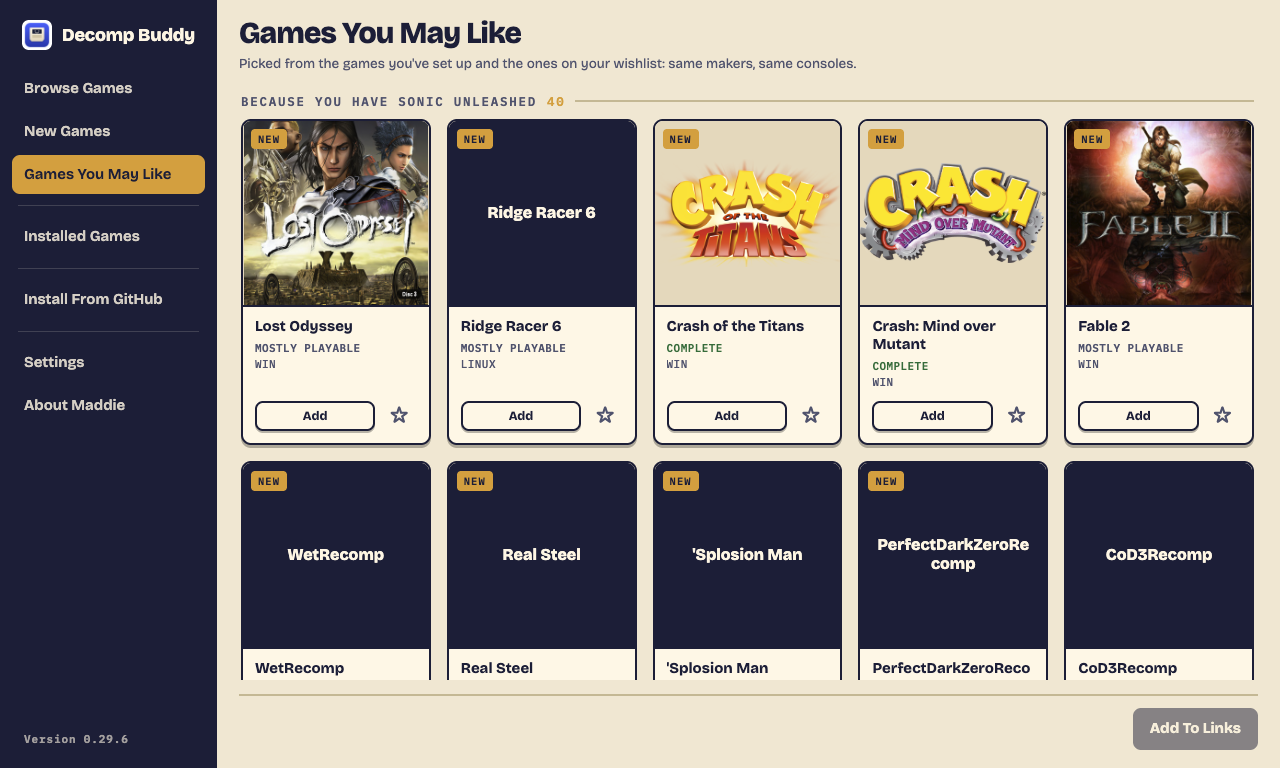
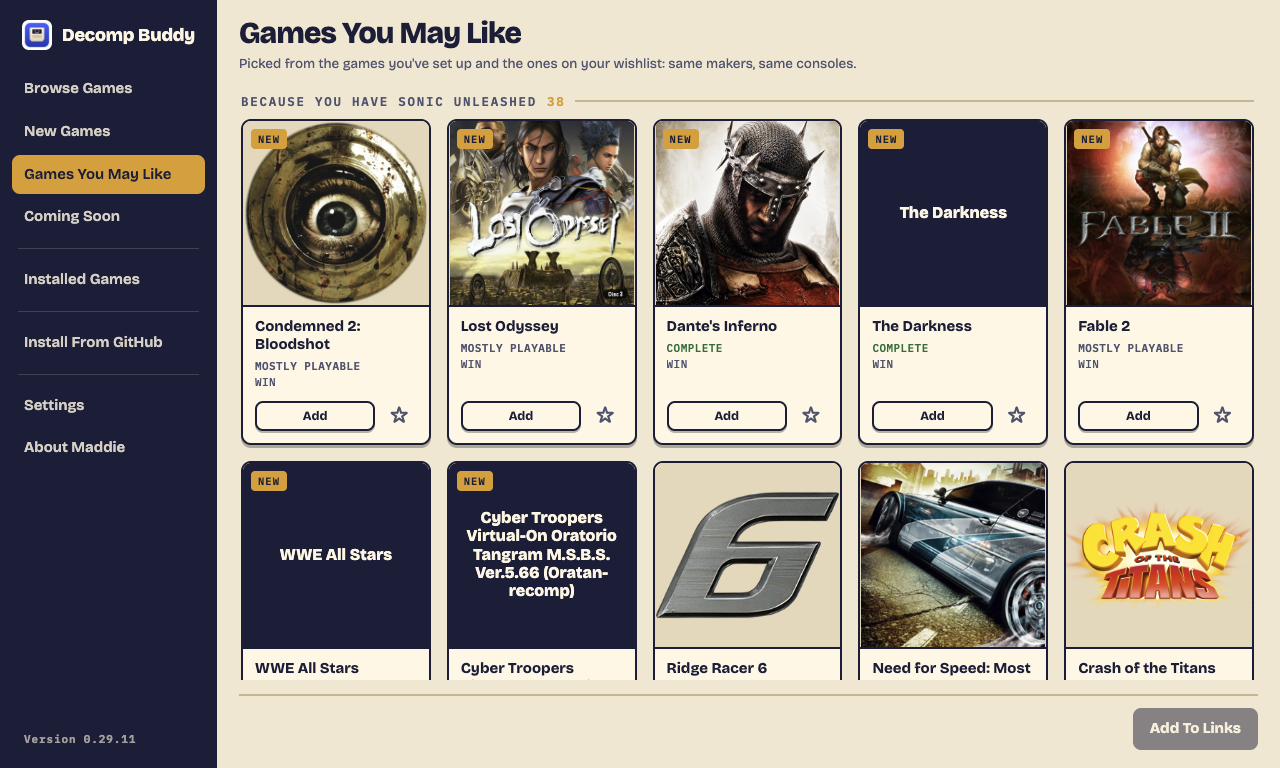
Discover reads r/recomps; queue sort reads Reddit and searches link-less titles; console aliases; fresh screenshots

diff --git a/src/discover.js b/src/discover.js
@@ -1,4 +1,4 @@
-// Finding projects nobody has listed yet: r/decomps (RSS - Reddit's JSON needs OAuth, the feed
+// Finding projects nobody has listed yet: Reddit (RSS - Reddit's JSON needs OAuth, the feed
 // doesn't) and GitHub search. Both return raw candidates; the admin decides what's real.
 
 const UA = "decomp-buddy/discover (by /u/tanookistudios)";
@@ -13,28 +13,40 @@ export function reposIn(text) {
 }
 
 export function parseRedditRss(xml, sub) {
-  const out = [];
+  const out = [], unlinked = [];
   for (const [, entry] of xml.matchAll(/<entry>([\s\S]*?)<\/entry>/g)) {
     const title = unescape((entry.match(/<title>([\s\S]*?)<\/title>/) || [])[1] || "");
     const link = (entry.match(/<link href="([^"]+)"/) || [])[1] || "";
     const updated = (entry.match(/<updated>([^<]+)<\/updated>/) || [])[1] || "";
     const content = unescape((entry.match(/<content[^>]*>([\s\S]*?)<\/content>/) || [])[1] || "");
-    for (const [, repo] of reposIn(`${content} ${link}`)) out.push({ repo, title, via: `r/${sub}`, url: link, seen: updated });
+    const repos = reposIn(`${content} ${link}`);
+    for (const [, repo] of repos) out.push({ repo, title, via: `r/${sub}`, url: link, seen: updated });
+    // A post about a port with no GitHub link in it (a video, a screenshot): the title is still a lead.
+    if (!repos.size && /recomp|decomp|port|native|remaster|\bpc\b/i.test(title)) unlinked.push({ title, url: link, sub, seen: updated });
   }
+  out.unlinked = unlinked;
   return out;
 }
 
-// One bad subreddit (429s are common) doesn't sink the others; errors come back alongside.
-export async function scanReddit(subs = ["decomps"]) {
-  const out = [], errors = [];
-  for (const sub of subs) {
+export const REDDIT_SUBS = ["decomps", "recomps", "emulation", "decompilation"];
+const pause = (ms) => new Promise((r) => setTimeout(r, ms));
+
+// One bad subreddit doesn't sink the others; errors come back alongside. Reddit answers 429 when feeds
+// are asked for back to back, so subreddits go a few seconds apart and a 429 gets one slower retry.
+export async function scanReddit(subs = REDDIT_SUBS, { gap = 10000, retryAfter = 45000 } = {}) {
+  const out = [], errors = [], unlinked = [];
+  for (const [i, sub] of subs.entries()) {
+    if (i) await pause(gap);
     try {
-      const res = await fetch(`https://www.reddit.com/r/${sub}/new.rss?limit=100`, { headers: { "User-Agent": UA }, signal: AbortSignal.timeout(20_000) });
+      const get = () => fetch(`https://www.reddit.com/r/${sub}/new.rss?limit=100`, { headers: { "User-Agent": UA }, signal: AbortSignal.timeout(20_000) });
+      let res = await get();
+      if (res.status === 429) { await pause(retryAfter); res = await get(); }
       if (!res.ok) { errors.push(`r/${sub} answered ${res.status}`); continue; }
-      out.push(...parseRedditRss(await res.text(), sub));
+      const got = parseRedditRss(await res.text(), sub);
+      out.push(...got); unlinked.push(...got.unlinked);
     } catch (err) { errors.push(`r/${sub}: ${err.message}`); }
   }
-  out.errors = errors;
+  out.errors = errors; out.unlinked = unlinked;
   return out;
 }
 

diff --git a/src/main/settings.js b/src/main/settings.js
@@ -15,6 +15,7 @@ import { readVault } from "../vault.js";
 import { steamDir } from "../steam.js";
 import { fetchSharedSources, sourceKey, validateSourceEntry, normalizeUser, SOURCES_URL } from "../sources/shared-sources.js";
 import { VERSION, vaultDir, logFile, encrypt, decrypt, loadSettings, saveSettings, outDirFor, defaultFindsFile, sourcesFileFor, currentTarget, githubToken, applyGitHubToken, here } from "./core.js";
+import { REDDIT_SUBS } from "../discover.js";
 
 ipcMain.handle("settings:get", async () => {
   const s = loadSettings();
@@ -30,7 +31,7 @@ ipcMain.handle("settings:get", async () => {
     hasKey: !!decrypt(saved), version: VERSION, hasGithubToken: !!githubToken(s), lang: s.lang || "system", langs: LANGS, osLang: app.getLocale(),
     theme: s.theme || "system", preferBoxart: !!s.preferBoxart, sawLegal: !!s.sawLegal, sawWhere: !!s.sawWhere, setupCount: s.setupCount || 0, nudgedAt: s.nudgedAt || [], collapsedGroups: s.collapsedGroups || [], vault: readVault(vaultDir()),
     wishlist: s.wishlist || {}, mine: s.mine || {}, digest: s.digest || null, startCouch: !!s.startCouch, countSetups: s.countSetups ?? null, libraryFolders: s.libraryFolders || [], steamAvailable: !!steamDir(),
-    discoverSubs: s.discoverSubs || ["decomps", "emulation", "decompilation"], discoverChannels: s.discoverChannels || [],
+    discoverSubs: s.discoverSubs || REDDIT_SUBS, discoverChannels: s.discoverChannels || [],
     target: TARGETS[s.target] ? s.target : "windows", targets: Object.fromEntries(Object.entries(TARGETS).map(([k, t]) => [k, t.label])),
     sources: {
       builtin: BUILTIN.map((b) => ({ id: b.SOURCE.id, label: b.SOURCE.label, url: b.SOURCE.url, enabled: s.sources?.builtin?.[b.SOURCE.id] !== false })),

diff --git a/test/discover.test.js b/test/discover.test.js
@@ -17,3 +17,18 @@ test("youtube: channel id resolution accepts ids and handles; feed parse pulls r
   const r = await scanYouTube(["nope"], { resolve: async () => { throw new Error("no such channel"); } });
   assert.deepEqual(r.candidates, []); assert.match(r.errors[0], /no such channel/);
 });
+
+test("reddit: posts without a GitHub link keep their title as a lead; a 429 gets one retry", async () => {
+  const { parseRedditRss, scanReddit } = await import("../src/discover.js");
+  const xml = `<feed><entry><title>Burnout 3 Takedown Is Finally On PC</title><link href="https://www.reddit.com/r/recomps/comments/y/"/><updated>2026-10-16T00:00:00+00:00</updated><content type="html">&lt;p&gt;video&lt;/p&gt;</content></entry>
+  <entry><title>What should I play tonight?</title><link href="https://www.reddit.com/r/recomps/comments/z/"/></entry></feed>`;
+  const r = parseRedditRss(xml, "recomps");
+  assert.equal(r.length, 0);
+  assert.deepEqual(r.unlinked.map((u) => u.title), ["Burnout 3 Takedown Is Finally On PC"]);
+  const real = globalThis.fetch; let calls = 0;
+  globalThis.fetch = async () => (++calls === 1 ? { status: 429, ok: false } : { status: 200, ok: true, text: async () => xml });
+  try {
+    const s = await scanReddit(["recomps"], { gap: 0, retryAfter: 0 });
+    assert.equal(calls, 2); assert.deepEqual(s.errors, []); assert.equal(s.unlinked.length, 1);
+  } finally { globalThis.fetch = real; }
+});

diff --git a/src/renames.js b/src/renames.js
@@ -13,7 +13,7 @@ export const canonRepo = (full) => { const [o, ...r] = String(full || "").split(
 const CONSOLE_ALIASES = [[/^(nintendo )?game ?boy advance$|^gba$/i, "Game Boy Advance"], [/^nintendo entertainment system$|^famicom$/i, "NES"],
   [/^super nintendo( entertainment system)?$|^super famicom$/i, "SNES"], [/^sony playstation$|^ps1$|^psx$/i, "PlayStation"], [/^sony playstation 2$/i, "PlayStation 2"],
   [/^(sony )?playstation portable$/i, "PlayStation Portable"], [/^sega genesis$|^genesis$|^sega mega drive$|^(sega )?mega drive ?\/ ?genesis$/i, "Mega Drive"],
-  [/^(ibm )?pc \((ms-)?dos\)$|^ms-dos$|^dos$/i, "IBM PC (MS-DOS)"], [/^nintendo gamecube$/i, "GameCube"], [/^sega (dreamcast|saturn)$/i, (m) => m.replace(/^sega /i, "")]];
+  [/^(ibm )?pc \((ms-)?dos\)$|^ms-dos$|^dos$|^ms-dos pc$|^pc \(ms-dos ?\/ ?windows\)$/i, "IBM PC (MS-DOS)"], [/^pc$|^windows$/i, "PC (Windows)"], [/^xbox 360 ?\/ ?pc \(windows\)$/i, "Xbox 360"], [/^nintendo gamecube$/i, "GameCube"], [/^sega (dreamcast|saturn)$/i, (m) => m.replace(/^sega /i, "")]];
 export function canonConsole(c) {
   const s = String(c || "").trim(), hit = CONSOLE_ALIASES.find(([re]) => re.test(s));
   return !hit ? c : typeof hit[1] === "function" ? hit[1](s) : hit[1];

diff --git a/src/main/admin.js b/src/main/admin.js
@@ -3,7 +3,7 @@ import { ipcMain } from "electron";
 import fs from "node:fs";
 import path from "node:path";
 import { repoKey, publishFinds, enrichFromGitHub, FINDS_URL } from "../sources/finds.js";
-import { scanReddit, scanGitHub, scanBluesky, scanYouTube, scanGitHubTopics } from "../discover.js";
+import { scanReddit, scanGitHub, scanBluesky, scanYouTube, scanGitHubTopics, REDDIT_SUBS } from "../discover.js";
 import { publishSources, removeSource, sourceKey, validateSourceEntry, normalizeUser } from "../sources/shared-sources.js";
 import { logTo, loadSettings, saveSettings, defaultFindsFile, sourcesFileFor, state } from "./core.js";
 import { planNewFinds } from "./plans.js";
@@ -74,7 +74,7 @@ ipcMain.handle("discover:scan", async (e) => {
   const dismissed = s.discoverDismissed || {};
   const found = new Map(Object.entries(s.discovered || {}));
   const errors = [];
-  const subs = s.discoverSubs?.length ? s.discoverSubs : ["decomps", "emulation", "decompilation"];
+  const subs = s.discoverSubs?.length ? s.discoverSubs : REDDIT_SUBS;
   const channels = s.discoverChannels || []; // YouTube killed RSS for most channels; opt-in only
   const feeds = [
     ["Reddit", () => scanReddit(subs)],

diff --git a/test/triage.test.js b/test/triage.test.js
@@ -28,3 +28,10 @@ test("triage: an unnamed zip counts as a desktop download only with a word-for-w
   assert.deepEqual(desktopOf({ ...ok, platform_quote: "Runs on Windows." }, c), [], "a quote that isn't in the README doesn't count");
   assert.deepEqual(desktopOf(ok, { ...c, releases: [] }), [], "no release files, no download");
 });
+
+test("triage: a Reddit title becomes a short GitHub search", async () => {
+  const { titleQuery } = await import("../scripts/triage.mjs");
+  assert.equal(titleQuery("Burnout 3 Takedown Is Finally On PC"), "Burnout 3 Takedown");
+  assert.equal(titleQuery("[WIP] Genesis Road Rash 3 native-port and remaster"), "Genesis Road Rash 3 remaster");
+  assert.equal(titleQuery("Project Shaolin: Mortal Kombat: Shaolin Monks (original Xbox) static recomp"), "Project Shaolin Mortal Kombat Shaolin");
+});
